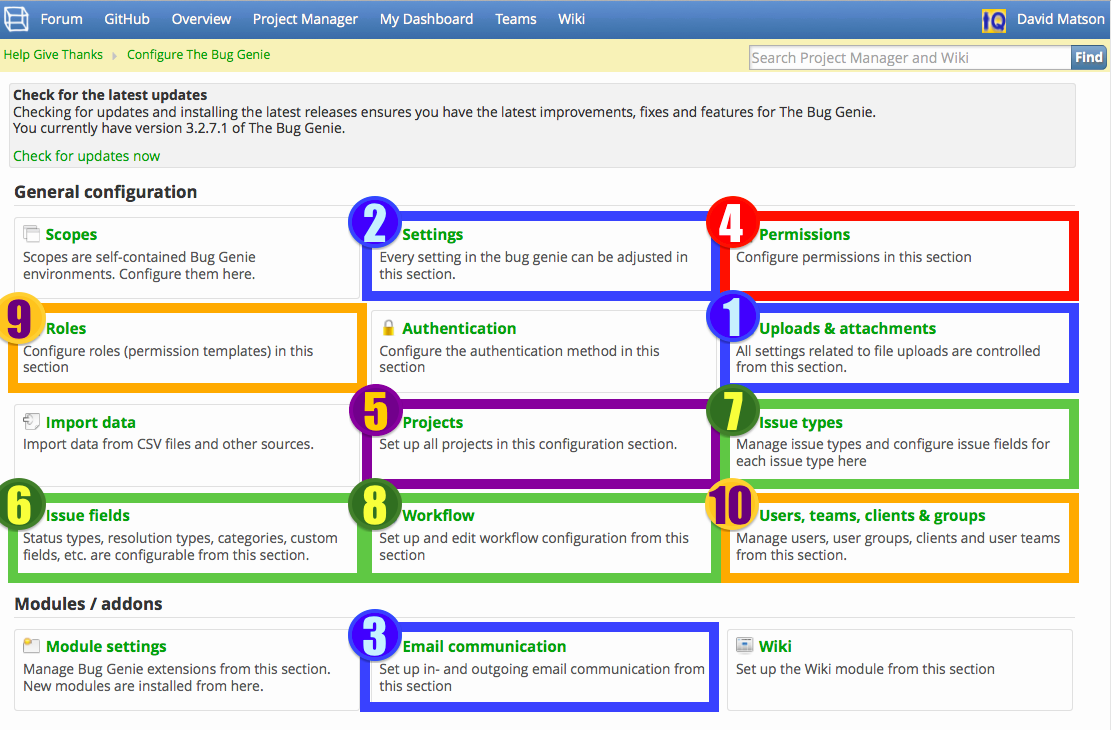
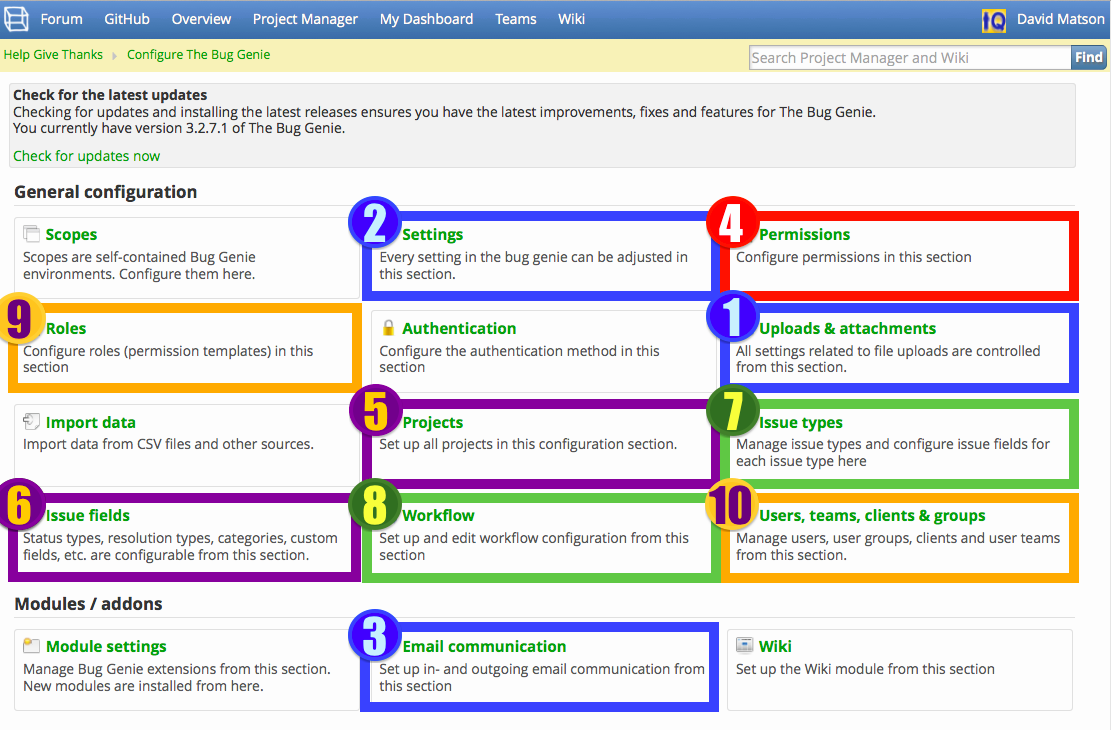
Update TGB configuration and status images

Changed region(s): [[0.0, 0.6329, 0.3366, 0.8137], [0.306, 0.4219, 0.3366, 0.5425]]

diff --git a/README.md b/README.md
@@ -493,6 +493,8 @@ http://issues.thebuggenie.com/wiki/WorkflowTransition
 
 ![alt TBG configuration order screenshot](https://raw.githubusercontent.com/HelpGiveThanks/HGTconfiguration/master/images/TBG%20Configuration%20Order.png)
 
+![alt TBG configuration order screenshot](https://raw.githubusercontent.com/HelpGiveThanks/HGTconfiguration/master/images/ColorLuminosity%20Sort%20Order.png)
+
 
 ## Open Source License and Warranty Information
 The Help Give Thanks Research Project website configuration files are free for you to redistribute and modify under the terms of the Mozilla Public License for The Bug Genie files, and the General Public License for all Vanilla files and plugins.
